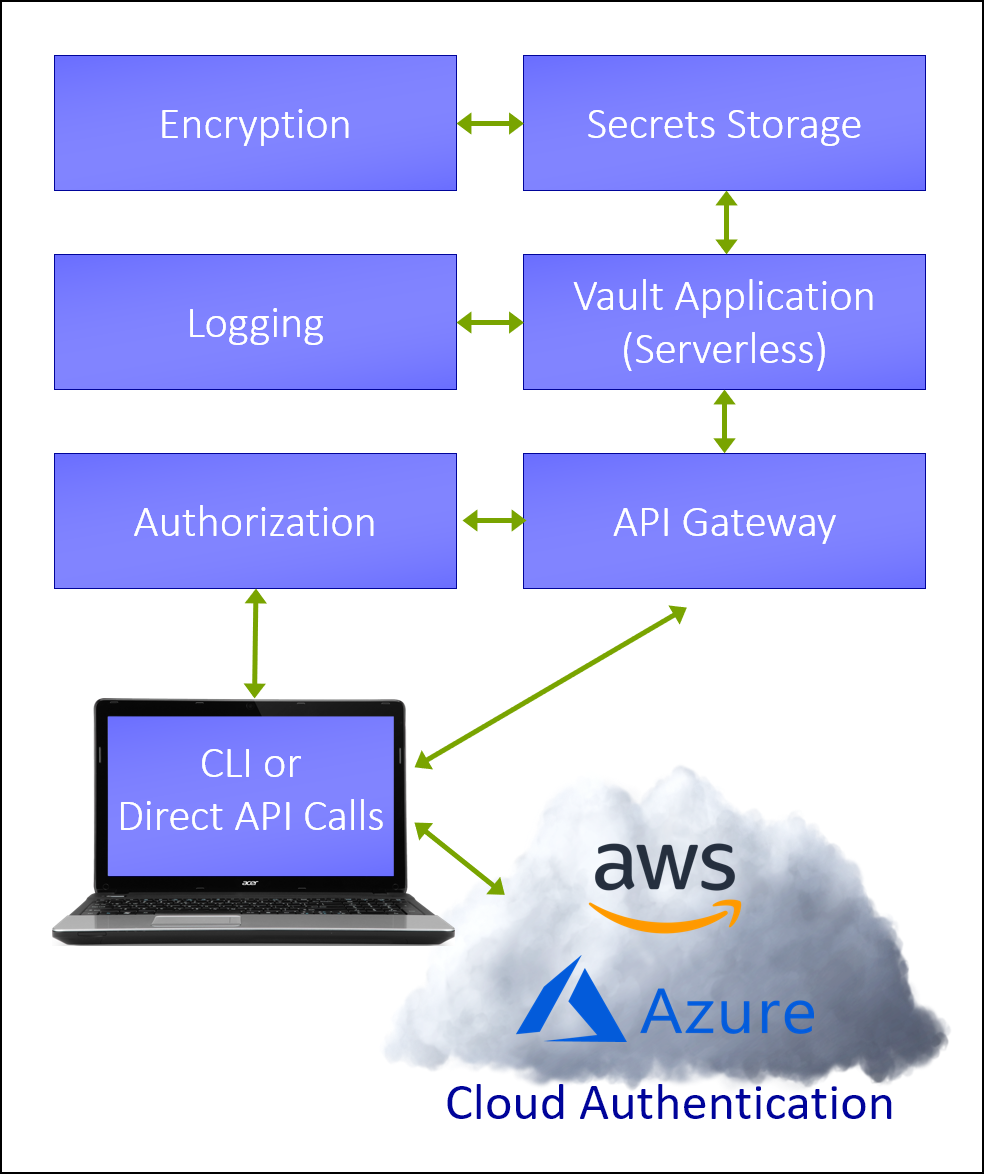
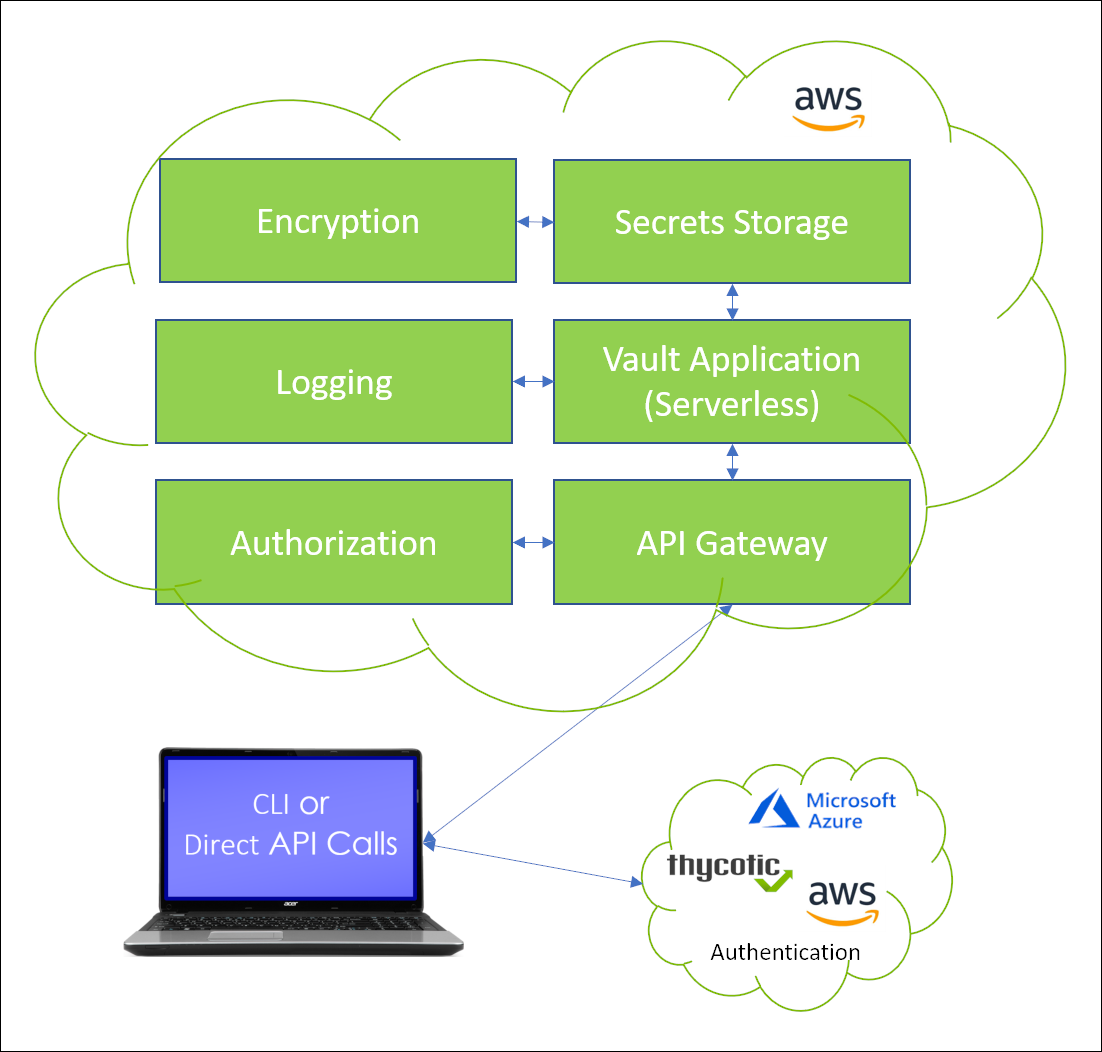
major additions to architecture
late-breaking info on SOC 2 for the renamed Architecture and Security section plus sundry nits corrected

diff --git a/product/01-overview/architecture.md b/product/01-overview/architecture.md
@@ -1,26 +1,157 @@
-[title]: # (Architecture)
+[title]: # (Architecture and Security)
 [tags]: # (,)
 [priority]: # (1110)
 
-# Architecture
+# Architecture and Security
 
-DevOps Secrets Vault unites two main components:
+DevOps Secrets Vault operates through two main components:
 
-* on the customer premises: locally installed, OS-specific CLI executables on workstations used to operate DevOps Secrets Vault
+* on the customer premises: locally installed, OS-specific Command Line Interface executables on workstations used to operate DevOps Secrets Vault
 
 * in the cloud: a secrets vault created as a tenant per DSV as a multi-tenancy SaaS delivered by an AWS instance
 
+DSV supports the Thycotic One, AWS, and Azure cloud authentication providers.
+
+Activities originate on customer premises in three ways:
+
+* a command entered manually using the CLI
+* a command issued by a running shell script or application
+* an API call by an application
+  
+---
+  
 **Architectural Summary View: DevOps Secrets Vault**
 ![Image](./images/dsv-architecture-simple-01.png)
   
-DSV supports the AWS and Azure cloud authentication providers. Activities originate at the customer premises one of three ways:
-
-* a command entered manually at the CLI
-* a command issued by a running shell script or application
-* an API call by an application
-
 The API Gateway receives API calls, obtains the responses, and relays them to the caller using HTTP GET, PUT, POST and other methods common to the REST architectural style. The Authorizer uses OAuth to handle API Gateway authorization.
 
 The Vault Application hosts the core DSV functionality, essentially a set of AWS Lambda (serverless) commands. Lambda auto-scales to demand.
 
 Extensive logging enables strong audit trails and protections, while encryption protects secrets in the vault and anywhere data is at rest.
+
+## Availability
+
+Th DSV Uptime SLA percentage is 99.90 percent based on the uptimes of component
+products and services.
+
+## Business Continuity
+
+AWS Dynamo databases feature transactional log backups providing a Recovery
+Point Objective (RPO) of 5 minutes. The recovery time objective (RTO) is under 6
+hours with a target of 20 minutes.
+
+## Disaster Recovery
+
+In the event of a disaster such as an AWS region failing, we would have to
+rebuild using AMI/CloudFormation files and deploy in a new region.
+
+For the DSV application, the broadest scale of consequence for a disaster would
+be equivalent to an AWS region failing. That would cause complete loss of access
+to Thycotic’s cloud entities located in the failed region for an indefinite,
+ongoing time.
+
+In such a circumstance, Thycotic would rebuild using AMI/Cloud formation files
+and deploy in a new region.
+
+## Confidentiality
+
+In discussing confidentiality, we must interpret the term against the different
+states in which data exists.
+
+### Data at Rest
+
+When secrets are in a storage state, they reside in the AWS Dynamo database,
+encrypted via the AWS KMS service using the AWS-owned key.
+
+Encryption also applies to logs in S3 storage and Elasticsearch.
+
+### Data in Transit
+
+DSV establishes the https connection using the TLS 1.2 protocols. For
+server-side authentication, DSV relies on Amazon-issued digital certificates.
+
+## Client Authentication
+
+DSV provides five methods for client authentication:
+
+* username/password
+
+* Thycotic One
+
+* Client ID
+
+* AWS IAM
+
+* Microsoft MSI
+
+Authentication grants an access token with a one-hour time-to-live (TTL). When
+the token times out, DSV requires re-authentication.
+
+The username/password authentication method uses a refresh token good for 48
+hours. The refresh token renews along with each new access token, so the 48
+hours counts relative to the last access token’s time of issuance. If the
+refresh token expires, DSV requires re-authentication.
+
+Username/password could also link to Thycotic1 for authentication. This allows
+the initial user to reset the password if needed.
+
+## Integrity Checks
+
+
+### CLI Code Signing
+
+The downloadable CLI executables include code signing certificates.
+
+Additionally, the download website provides a 256-bit hash of the executable
+file in a text file, so that customers may run a hash check on the downloaded
+material.
+
+### Token Signing
+
+Access tokens granted to users or applications must transit from the client to
+the API, potentially allowing an unauthorized party to tamper with the tokens.
+To prevent this, DSV signs access tokens.
+
+## Personally Identifiable Information (PII) and GDPR
+
+DSV requires certain personally identifiable information (PII) to identify each
+user’s account. This includes the user’s name, email address, and password,
+these being the minimum necessary for authentication, and the user’s IP address,
+used during auditing as an indicator of the user’s location.
+
+DSV functions to store and protect user’s “secrets,” and to make the secrets
+accessible to the user and potentially their designees. The term secrets here
+commonly means passwords, which are not PII, but DSV users can store anything
+they choose as a secret—for example, images, documents, or other files.
+
+* Accordingly, only users know whether DSV secrets have PII status.
+
+* Because the nature of DSV is to encrypt and protect secrets for users, secrets that are PII will de facto benefit from DSV’s stringent controls for privacy and user control, in accordance with both the letter and spirit of the GDPR.
+
+Only select, trusted employees of Thycotic can access secrets data and decrypt
+it, and only via a controlled process that generates an audit trail inaccessible
+to those employees. This serves the interests of users without compromising
+their privacy and control.
+
+In GDPR terms, Thycotic customers are the data controllers, and Thycotic is the
+data processor.
+
+* The customer determines all information (the secrets) stored in the vault and decides how long to store it.
+
+* Each DSV customer entirely controls their users, their user roles, and the access to secrets by their users, according to the policies of the customer organization. DSV logs activity so the customer can monitor access and changes to the secrets, users, and roles within the vault—again, all according to the customer’s policies.
+
+* For traceability, DSV logs include source IP addresses and time stamps.
+
+Thycotic conducts a Privacy Impact Assessment (PIA) annually to verify continued
+conformance to GDPR principles.
+
+### Third Party GDPR Conformance Assessment 
+
+The Thycotic SOC 2 Type II report contains an independent third-party assessment
+of our control environment for conformance to applicable GDPR criteria.
+
+The report ties to the AICPA’s Trust Services Criteria (specifically the
+Security, Availability, and Confidentiality criteria) and issues annually in
+accordance with the AICPA’s AT Section 101 (Attest Engagements).
+
+
